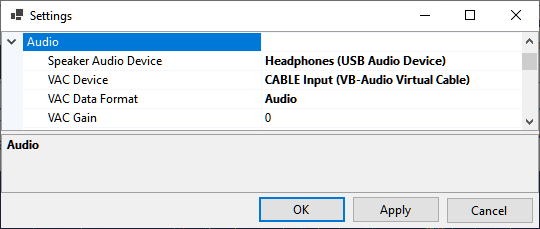
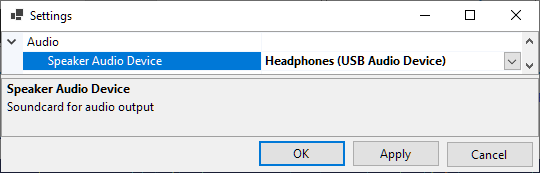
update docs for output streaming

Changed region(s): [[0.0, 0.0, 1.0, 0.4624], [0.0, 0.7803, 1.0, 1.0], [0.0, 0.4913, 1.0, 0.6647]]

diff --git a/docs/users_guide/setting_up_output_stream.md b/docs/users_guide/setting_up_output_stream.md
@@ -1,0 +1,76 @@
+# Setting Up Output Stream
+
+SkyRoof can optionally send the raw I/Q data or demodulated audio, either to a Virtual Audio Cable (VAC) or as a stream of UDP packets. The data are sent as 32-bit floating point values in the IEEE 754 format.
+The sampling rate is 48 kHz in all streaming modes.
+
+## Configuring
+
+Click on **Tools / Settings** in the main menu to open the [Settings window](settings_window.md):
+
+![Output Stream Settings](../images/output_stream_settings.png)
+
+- **Type** - select the stream type:
+  - I/Q to VAC;
+  - Audio to VAC;
+  - I/Q to UDP;
+  - Audio to UDP.
+- **Gain** - gain or attenuation, in dB, that will be applied to the stream data;
+
+- **VAC Device** - the Virtual Audio Cable device to use;
+- **UDP Port** - the UDP port number to use.
+
+
+Output streaming can be turned on and off by clicking on the **Output Stream** label
+on the status bar.
+
+## Decoding Satellite Telemetry
+
+I/Q or Audio data, streamed via VAC or UDP, may be used to decode telemetry transmitted by the satellites.
+There is a number of telemetry decoders to choose from. One such decoder is
+[gr_satellites.exe](https://gr-satellites.readthedocs.io/en/latest/command_line.html) command line tool,
+its installation instructions are
+[here](https://gr-satellites.readthedocs.io/en/latest/installation_conda.html).
+
+---
+The command below runs gr_satellites.exe v.5.7.0 to decode telemetry of the PEARL-1C satellite using the I/Q UDP stream from SkyRoof:
+
+```text
+(base) C:\Ham>gr_satellites 58342 --udp --udp_port 7355 --udp_raw --iq --samp_rate 48e3 --hexdump
+```
+
+Example output from gr_satellites.exe:
+
+```text
+pagesize :debug: Setting pagesize to 4096 B
+top_block_impl :debug: Using default scheduler "TPB"
+udp_source :info: Listening for data on UDP port 7355.
+***** VERBOSE PDU DEBUG PRINT ******
+((transmitter . 9k6 FSK downlink))
+pdu length =         64 bytes
+pdu vector contents =
+0000: 9c 86 aa 8e a6 62 e0 a0 8a 82 a4 98 86 e1 03 f0
+0010: f9 11 01 83 43 33 a9 e7 a4 10 00 00 11 00 00 00
+0020: 00 00 00 00 7a 0f 01 00 00 00 00 00 00 00 00 00
+0030: 05 00 00 00 77 fb 01 00 67 aa 00 00 00 00 00 00
+************************************
+***** VERBOSE PDU DEBUG PRINT ******
+((transmitter . 9k6 FSK downlink))
+pdu length =         88 bytes
+pdu vector contents =
+0000: 9c 86 aa 8e a6 62 e0 a0 8a 82 a4 98 86 e1 03 f0
+0010: fb 11 01 81 43 33 00 00 00 00 00 00 00 00 00 00
+0020: 00 00 00 00 00 00 00 00 00 00 00 00 00 00 00 00
+0030: 00 00 00 00 00 00 00 00 00 00 00 00 00 00 00 00
+0040: 00 00 00 00 00 00 00 00 00 00 00 00 00 00 00 00
+0050: 00 00 00 00 00 00 00 00
+************************************
+***** VERBOSE PDU DEBUG PRINT ******
+((transmitter . 9k6 FSK downlink))
+pdu length =         56 bytes
+pdu vector contents =
+0000: 9c 86 aa 8e a6 62 e0 a0 8a 82 a4 98 86 e1 03 f0
+0010: 06 11 01 82 43 33 83 8a 01 00 9e 00 00 00 04 00
+0020: 00 00 88 ff f8 ae 00 00 80 01 00 00 0f 02 00 00
+0030: 00 00 00 00 00 00 00 00
+```
+---

diff --git a/docs/users_guide/setting_up_audio.md b/docs/users_guide/setting_up_audio.md
@@ -5,13 +5,9 @@ Click on **Tools / Settings** in the main menu to open the [Settings window](set
 ![Audio Settings](../images/audio_settings.png)
 
 - **Speaker Audio Device** - select the audio device that will be used to output the audio
-    received with SDR;
-- **VAC Device** - the same audio or I/Q stream may be also sent to the external software 
-    via a Virtual Audio Cable (VAC). Select the VAC device here;
-- **VAC Data Format** - the format of the output stream, either audio or I/Q data sampled at 48 kHz;
-- **VAC Gain** - gain or attenuation, in dB, that will be applied to the VAC output.
+    received with SDR.
 
-The output to the soundcard and VAC can be toggled by clicking on the **Soundcard** and **Output Stream** labels
+The output to the soundcard can be toggled by clicking on the **Soundcard** label
 on the status bar. A drop-down list next to **Soundcard** allows switching between the audio devices:
 
 ![Audio Settings](../images/audio_labels.png)

diff --git a/docs/index.md b/docs/index.md
@@ -41,7 +41,7 @@ The main features of SkyRoof are:
   - Pass List - the details of the predicted passes;
 - SDR-based waterfall display that covers the whole satellite segments on the VHF and UHF bands, with zoom and pan;
 - SDR-based SSB/CW/FM receiver with RIT and Doppler tracking;
-- audio and I/Q output to external programs via VAC;
+- audio and I/Q output to external programs via VAC or UDP;
 - frequency scale with satellite names and transponder segments, Doppler-corrected;
 - CAT control of an external transceiver;
 - antenna rotator control.

diff --git a/docs/users_guide/overview.md b/docs/users_guide/overview.md
@@ -22,7 +22,7 @@ The main features of SkyRoof are:
   - Pass List - the details of the predicted passes;
 - SDR-based waterfall display that covers the whole satellite segments on the VHF and UHF bands, with zoom and pan;
 - SDR-based SSB/CW/FM receiver with RIT and Doppler tracking;
-- audio and I/Q output to external programs via VAC;
+- audio and I/Q output to external programs via VAC or UDP;
 - frequency scale with satellite names and transponder segments, Doppler-corrected;
 - CAT control of an external transceiver;
 - antenna rotator control.
